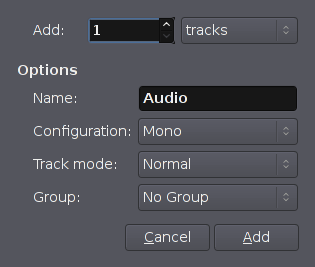
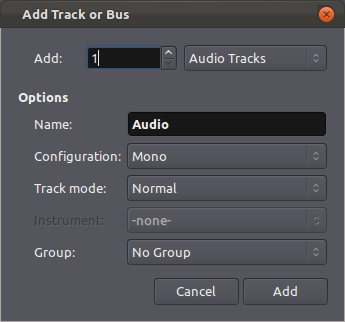
Stuff.

diff --git a/ardour.tex b/ardour.tex
@@ -126,6 +126,8 @@ If you join the IRC rooms, here are a few tips:
   considered rude to do so.  Then wait: your answer may come in
   seconds, minutes, hours or never, depending on who is around and
   what time of the day it is wherever they happen to be in the world.
+  In particular, make sure you \emph{do} wait; do not get upset if you
+  don't get an answer straight away.
 \item \emph{Don't paste large amounts of text into the channel} --- if
   you have more than a couple of lines of output from some command
   that you want to show everyone, use a site like \url{pastebin.com}.
@@ -483,7 +485,7 @@ maintained, and can be used as drop-in replacements for each other.
 JACK1 has version numbers like 0.121.3, and JACK2 (also known as
 jackdmp) has version numbers like 1.9.8.  Both implementations have
 their advantages and disadvantages.  It does not matter a great deal
-which one is used.
+which one you use.
 
 % XXX: unless what?
 
@@ -696,9 +698,9 @@ Figure~\ref{fig:new-session}.  Enter something like `test' and click
 The next step is to add a track to our session so that we have
 something to record onto.  Choose \menu{Track,Add Track or Bus...}
 from the menu at the top of the editor window.  This will bring up a
-dialogue box, as shown in Figure~\ref{fig:add-track-or-bus}.
+dialogue box, as shown in Figure~\ref{fig:quickstart-add-track-or-bus}.
 
-\screenshot{add-track-or-bus.png}{Add Track or Bus dialogue}{fig:add-track-or-bus}
+\screenshot{add-track-or-bus.png}{Add Track or Bus dialogue}{fig:quickstart-add-track-or-bus}
 
 For now, leave the options as they are; this will create a single
 monophonic audio track.  This track must now be connected to the sound
@@ -847,8 +849,74 @@ your session folder.
 \chapter{Tracks and busses}
 
 The basic building blocks of Ardour's signal flow are \emph{tracks}
-and \emph{busses}.  
+and \emph{busses}.
 
+Both are built on the same foundation; a bus's functionality is a
+subset of a track's.  Both can pass audio and MIDI data, apply
+processing and perform various signal routing operations.  The
+difference with a track is that can record and play back data.
+
+\section{Track and bus basics}
+
+\subsection{Types}
+
+An Ardour track can be either `audio' or `MIDI'.  The only real
+difference between the two is the type of data that the track will
+record and play back.  Either type of track can \emph{pass} either
+type of data.  Hence, for example, one might have a MIDI track that
+contains an instrument plugin; such a track would contain MIDI data,
+but would produce audio, since the instrument would turn the one into
+the other.
+
+In Ardour~3 busses are only used for audio.
+
+\subsection{Adding and removing tracks}
+
+A track or bus can be added to a session in various ways:
+
+\begin{itemize}
+\item Choose \menu{Track,Add Track or Bus\ldots} from the main menu.
+\item Right-click in an empty part of the track controls area.
+\item Click the $+$ button underneath the list of tracks in the mixer.
+\end{itemize}
+
+Any of these actions will open the \emph{Add Track or Bus} dialogue,
+as shown in Figure~\ref{fig:add-track-or-bus}.
+
+\screenshot{add-track-or-bus.png}{Add Track or Bus dialogue}{fig:add-track-or-bus}
+
+From here, you can select firstly the number of tracks or busses to
+add, and the type; audio track, MIDI track or bus.  There are also
+some options, which vary depending on the type of thing you are
+creating.
+
+These options are:
+\begin{itemize}
+\item Configuration (for audio tracks and busses) --- this is the
+  number of input and outputs the track is set up with.  You can
+  always change these counts later.
+\item Track mode (for audio tracks) --- this can be `normal', `non-layered' or `tape'.
+% XXX I don't know what non-layered or tape modes do
+\item Group --- tracks and busses can be put into groups so that a
+  selected range of operations are applied to all members of a group
+  at the same time (selecting record enable, or editing, for example).
+  This option allows you to specify an existing group to add the new
+  track(s) or bus(ses) to, or to create a new group to put the new
+  things in.
+\item Instrument (for MIDI tracks) --- this is a short-cut to allow you to create a MIDI
+  track with an instrument plugin already added to it.  You can
+  achieve the same effect by creating a MIDI track with no plugins and
+  adding it yourself; this option just makes things slightly quicker.
+\end{itemize}
+
+Adding tracks will add them to both the editor and mixer windows; the
+editor window shows the timeline, with any recorded data, and the
+mixer shows just the processing elements of the track (its plugins,
+fader and so on).
+
+Tracks and busses can be removed by selecting them, right-clicking and
+choosing `Remove' from the menu.  A warning dialogue will pop up, as
+\emph{track removal cannot be undone}; use this option with care!
 
 \chapter{Unfiled miscellany}
 
